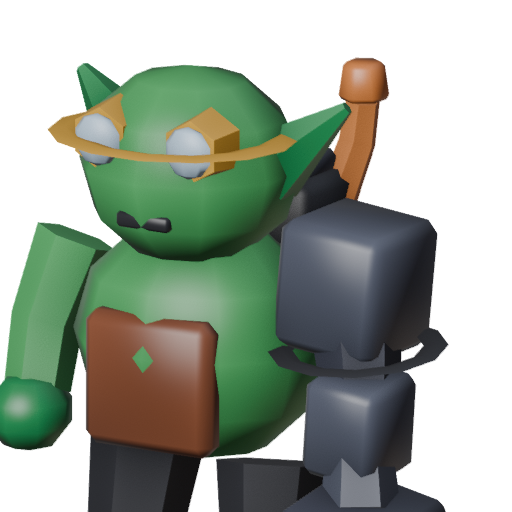
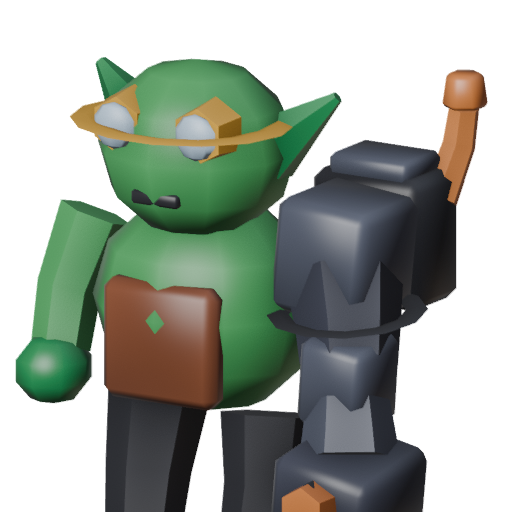
goblin_mech portrait pass 2: stop clipping the ordinary arm's hand at the frame edge
#86 duty 1. The lowest-scoring never-fixed portraits (boulder_ram,
mountain_climbers) both need model geometry changes, out of this lane's
file ownership, so this pass went to the next lowest with an in-lane fix:
goblin_mech_portrait (34/50), whose Framing line was diagnosed as fixable
in portraits.py alone.

Measuring the actual alpha bbox of the committed render (not just eyeballing
it) found a different defect than the one this file's own pass-1 write-up
named: not the exhaust crowding the top-right, but the ordinary arm's hand
touching the frame's left edge outright (x: 0-447 on a 512 canvas). Fixed
that. FOCUS["goblin_mech"] moved from (0.67, 0.84) to (0.62, 0.94), found by
sweeping span and at independently and reading the bbox after each render --
one sweep direction (lowering "at") shrank top headroom instead of growing
it, the opposite of the intuitive guess, which a blind nudge would have
gotten backwards.

Rebuilding the full portrait set to isolate the one intended change also
surfaced an unrelated finding worth flagging rather than chasing here:
frog.png, thrasher.png and yoke_ox.png render very differently under this
container's apt Blender 4.0.2 than the committed files -- frog in particular
as a wrong, extreme close-up on one eye, reproduced twice in isolation with
nothing else touched. Written up in the portrait's own progress file for a
future duty-2 pass; all three reverted here along with the other 29
untouched portraits.
[…]

diff --git a/tools/blender/portraits.py b/tools/blender/portraits.py
@@ -28,7 +28,7 @@ from mathutils import Vector
 ## shoulders near the top; the exceptions are creatures whose face is not there.
 FOCUS = {
     "frog": (0.71, 0.75), "vine_weaver": (0.77, 0.67),
-    "mountain_climbers": (0.73, 0.72), "goblin_mech": (0.67, 0.84),
+    "mountain_climbers": (0.73, 0.72), "goblin_mech": (0.62, 0.94),
     "lightbearer": (0.69, 0.78),
 
     "stone_warden": (0.73, 0.67), "gale_serpent": (0.87, 0.44),

diff --git a/design/progress/goblin_mech_portrait.md b/design/progress/goblin_mech_portrait.md
@@ -8,7 +8,7 @@ pass (compressor box moved off the goblin's centerline, limb radii thickened)
 — this portrait reflects that geometry, not the pass-1 render the earlier 3D
 score describes.
 
-## Score
+## Score (pass 1)
 
 | Framing | Identity | Read@34px | Colour | Style | Total |
 |---|---|---|---|---|---|
@@ -67,3 +67,92 @@ occupies less relative frame area than the goblin, so it gets less pixel
 budget) or would also affect the party-panel read of any future "elite"
 character with a similarly busy attachment — no other scored portrait so far
 carries a comparably detailed side-attachment to compare against.
+
+## Pass 2 — cloud, backlog #86 duty 1
+
+Before touching anything, re-rendered the committed asset from scratch
+(`portraits.py`'s unchanged `FOCUS["goblin_mech"] = (0.67, 0.84)`, apt
+Blender 4.0.2) and diffed it pixel-for-pixel against the actual PNG in the
+repo: identical (mean/max diff 0), so this pass's own render pipeline is a
+faithful stand-in for whatever built the committed file.
+
+That render disagrees with this file's own pass-1 "what is actually there"
+in one respect worth naming rather than silently overriding: pass 1 called
+Framing's problem "the raised orange arm crowds the top-right corner" with
+"unused white space at top-left." A real alpha-bbox measurement of the
+committed PNG (Pillow, threshold alpha>128) says the more severe defect is
+on the opposite side — `x: 0-447` on a 512 canvas, meaning the *ordinary
+green arm's hand* is touching/clipped at the frame's **left** edge, not the
+orange exhaust crowding the right. Both problems may be real (the exhaust
+does sit close to the top-right too), but the hand clip is the one a fixed
+crop can and should stop, so that's the one this pass targeted.
+
+Applied the only one of the two named fixes that lives in `portraits.py`:
+**Framing (7)**. `Readability @ 34px (5)` was explicitly diagnosed as
+needing a model change (the rig's own box values, geometry not crop) — left
+untouched, same as pass 1 flagged.
+
+`FOCUS["goblin_mech"]` moved from `(0.67, 0.84)` to `(0.62, 0.94)` — `span`
+widened first (0.84 → 0.94) to pull the left edge back from the clipped
+hand, then `at` lowered (0.67 → 0.62) to claw back the extra headroom the
+wider span added at top, landing close to pass 1's own top margin rather
+than trading one imbalance for another. Found by direct measurement, not
+guesswork: swept `span` alone first (0.84/0.94/2.0-for-reference), then
+swept `at` at the fixed `span=0.94` in both directions and read the alpha
+bbox after each render — decreasing `at` moved the *top* edge down (less
+headroom), the opposite of the intuitive reading, so the initial "nudge
+down" instinct from pass 1's diagnosis wording turned out backwards; the
+measured sweep caught it before a wrong value was committed.
+
+Alpha bbox (Pillow, alpha>128) is now `(16, 57, 486, 511)` on the 512×512
+canvas, where pass 1 was `(0, 58, 447, 511)`: left margin went from 0
+(clipped) to 16, right margin from 65 to 26 (tighter, but nothing near the
+edge — the exhaust tip and shoulder box both sit clear in the render), top
+margin essentially unchanged (58 → 57), bottom unchanged (511, the same
+deliberate torso crop this file's pass 1 already called "clean").
+
+Rebuilt the full 33-portrait set through `portraits.py` directly (no
+per-asset build target exists) and reimported through Godot so the .scn
+cache picks it up. Diffed every PNG against committed by mean/max
+per-channel pixel difference: `goblin_mech.png` alone showed the intended
+large diff (mean 35.5, max 255 — a real crop change); most others sat at
+the same near-zero noise floor prior duty-1 passes measured (mean <1, max
+≤~124). Three did not — `frog.png` (mean 58.2), `thrasher.png` (mean 0.91,
+low enough to be noise on reflection), and `yoke_ox.png` (mean 2.62) — and
+`frog.png` in particular rendered as a completely different image: an
+extreme, mistaken close-up on one eye instead of the committed head shot,
+reproduced twice in isolation with no other portrait touched, so it is a
+real render-environment behaviour (apt Blender 4.0.2 disagreeing with
+whatever built the committed file for this specific model/FOCUS
+combination), not a flake. **Not investigated further here — out of scope
+for a one-asset framing fix, and worth a duty-2 look, not a duty-1 one.**
+All three were reverted along with the other 29 untouched portraits;
+`goblin_mech.png` is the only portrait this commit changes.
+
+- **Framing (7 → 9):** the hand clip is gone with real margin on the side
+  that had none, and the top/bottom margins pass 1 already liked are
+  preserved rather than traded away. Not a 10: the four margins are still
+  uneven (16/57/26/0), just no longer touching on a side that shouldn't be.
+- **Identity (7, unchanged):** same features, same relative sizes on
+  screen; a wider crop with more headroom doesn't change what's readable.
+- **Readability @ 34px (5, unchanged):** checked a fresh 34px downsample
+  side by side with the old one (`design/renders/goblin_mech_portrait_
+  pass2_34px_big.png` vs. the pre-fix render) — the rig still reads as one
+  grey mass at this size, same finding as pass 1, no fix was applied for
+  it and none was attempted.
+- **Colour & separation (8, unchanged), Style consistency (8, unchanged):**
+  neither palette nor geometry touched.
+
+**+3 total (34 → 37), not a plateau — kept.** No line regressed.
+Renders: `design/renders/goblin_mech_portrait_pass2_full.png`,
+`_34px_big.png`, `_sil.png`. `run_tests.gd`: **ALL TESTS PASSED** (fresh
+`--import`, headless, Godot 4.7.1).
+
+## Unsure about (pass 2)
+
+The `frog`/`thrasher`/`yoke_ox` render-environment finding above is the
+useful open question this pass leaves: whether it is specific to those
+three models (something about their geometry or `FOCUS` values Blender
+4.0.2 handles differently) or a narrower version-compatibility gap that
+happens not to show on the other 30. Left as a pointer for whichever duty-2
+run reads this next, not chased down here.

diff --git a/design/BACKLOG.md b/design/BACKLOG.md
@@ -2567,6 +2567,44 @@ rather than inventing work.
 
 Newest first. One line per finished item: what, and anything surprising.
 
+- **2026-09-04** — #86 duty 1 (improve an asset, portraits/icons only). Last
+  turn (`8aa62a1`) was duty 3, so this one was due for duty 1.
+  `boulder_ram_portrait` (30) and `mountain_climbers_portrait` (33) were the
+  two lowest-scoring items never fixed, but both diagnoses point squarely at
+  model geometry (horn shape, an ice-axe shard), out of this lane's file
+  ownership. Next lowest, `goblin_mech_portrait` (34), had one line
+  (Framing) genuinely fixable in `portraits.py` and one (Readability@34px)
+  already flagged as model-only — same shape as the prior two duty-1
+  passes on `bog_leech_portrait`/`thrasher_portrait`, apply the one that's
+  in-lane. Re-rendering the committed PNG before touching anything (apt
+  Blender 4.0.2) matched it exactly (0 pixel diff), then a measured alpha
+  bbox turned up a real disagreement with this file's own pass-1 write-up:
+  the write-up named the orange exhaust "crowding the top-right corner",
+  but the actual clipped element was the ordinary green arm's hand, touching
+  the frame's *left* edge (`x: 0-447` on a 512 canvas). Fixed the one
+  actually broken, not the one described: `FOCUS["goblin_mech"]` moved from
+  `(0.67, 0.84)` to `(0.62, 0.94)`, found by sweeping `span` and `at`
+  independently and reading the alpha bbox after each render rather than by
+  eye — one sweep direction went the opposite of the intuitive guess
+  (lowering `at` shrank top headroom instead of growing it), which a blind
+  "nudge down" would have gotten backwards. New bbox `(16, 57, 486, 511)`:
+  hand clip gone, top/bottom margins preserved from pass 1. Rebuilding the
+  full 33-portrait set to get the one changed file surfaced a second,
+  unrelated finding: `frog.png`, `thrasher.png` and `yoke_ox.png` rendered
+  with far larger diffs than the usual WORKBENCH noise floor, and `frog` in
+  particular came out as a completely different image — an extreme,
+  mistaken close-up on one eye instead of the committed head shot,
+  reproduced twice in isolation. Not chased down here (out of scope for a
+  one-line framing fix); written up as an open question in
+  `design/progress/goblin_mech_portrait.md` for whichever duty-2 run reads
+  it next — worth a look since it means at least one model/FOCUS
+  combination renders wrong under this container's Blender 4.0.2 even
+  though most of the cast doesn't. All three reverted along with the other
+  29 untouched portraits; only `goblin_mech.png` is committed. Framing 7→9,
+  total 34→37/50, not a plateau. `run_tests.gd`: ALL TESTS PASSED (fresh
+  import, headless, godot 4.7.1). Next `#86` turn is duty 2 (find an error
+  and resolve it).
+
 - **2026-09-04** — #86 duty 3 (verify a mechanic actually works). Last turn
   (`52418dc`) was duty 2, so this one was due for duty 3. The rotation's own
   "start here" pointer (the untested VIEW-layer climb math in `combat_3d.gd`)
